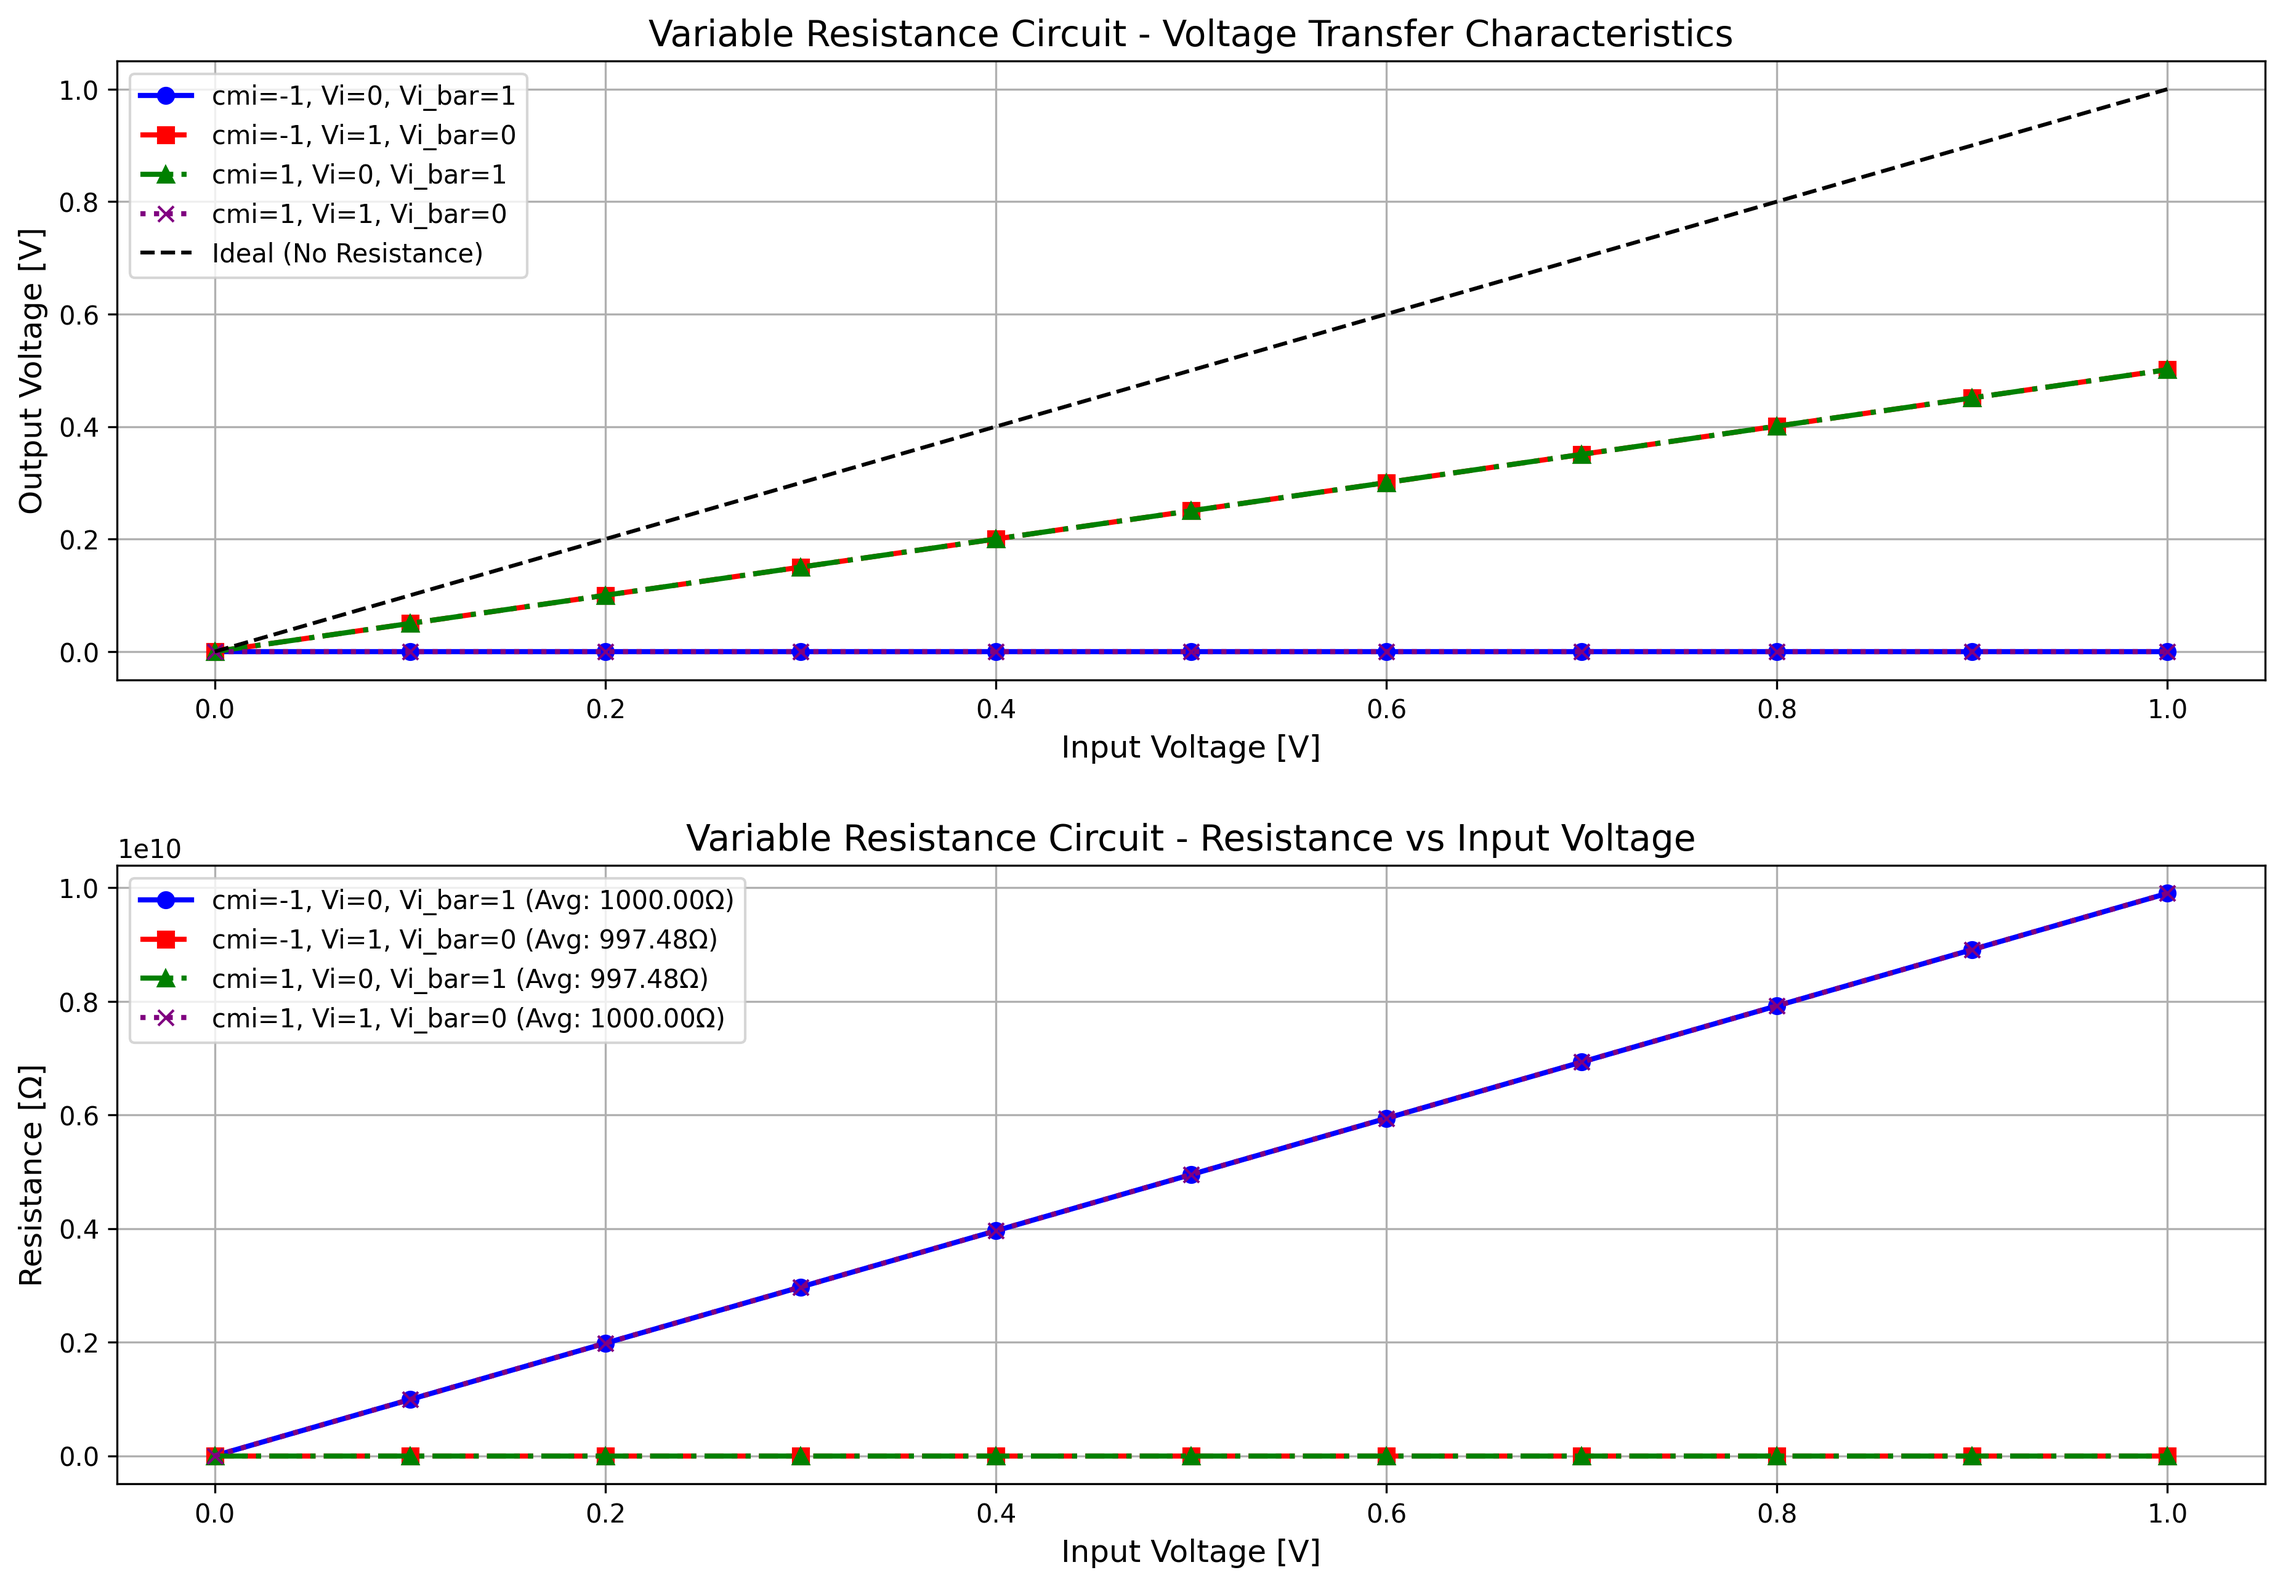
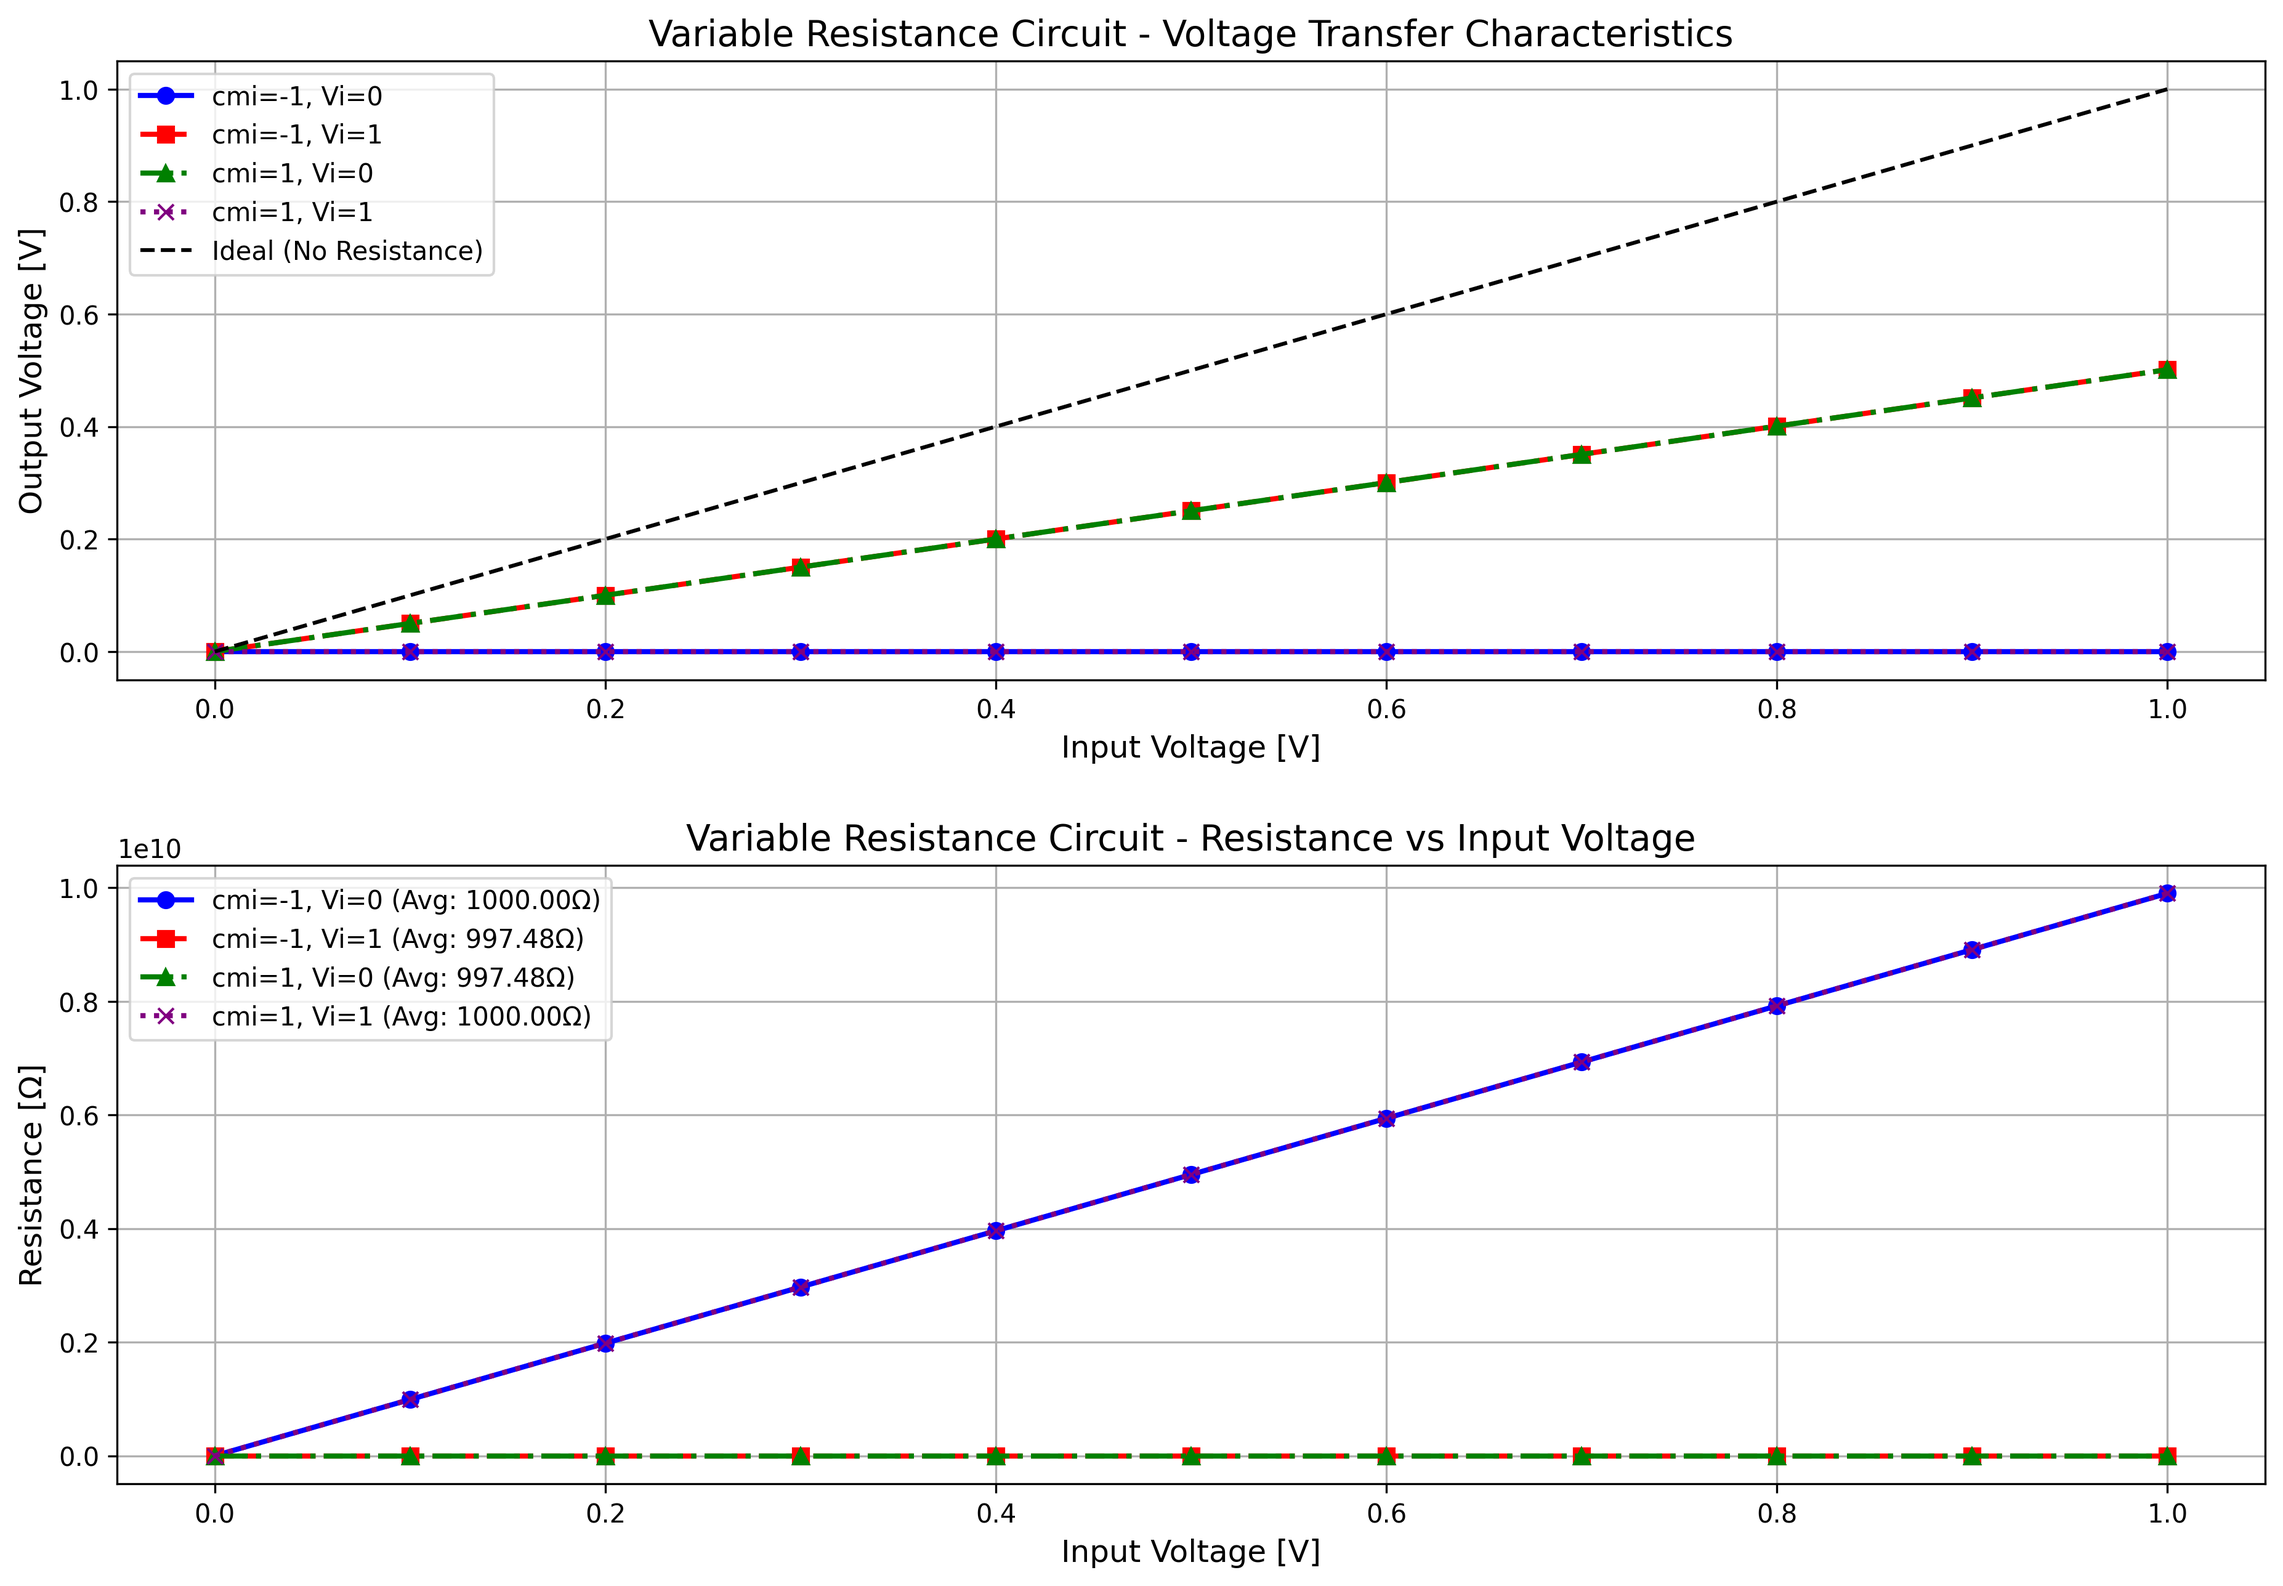
Variable resistance VCVS for inverting vi

Changed region(s): [[0.0931, 0.5592, 0.3412, 0.6524], [0.062, 0.0621, 0.2172, 0.1864]]

diff --git a/src/variable_resistance.py b/src/variable_resistance.py
@@ -23,14 +23,13 @@ class VariableResistance(SubCircuitFactory):
     
     Nodes:
     - vi: First control voltage input
-    - vi_bar: Second control voltage input (complement of vi)
     - vin: Input signal terminal
     - vout: Output signal terminal
     - vdd: Power supply
     - gnd: Ground
     """
     NAME = 'variable_resistance'
-    NODES = ('vi', 'vi_bar', 'vin', 'vout', 'vdd', 'gnd')
+    NODES = ('vi', 'vin', 'vout', 'vdd', 'gnd')
     
     def __init__(self, cmi):
         super().__init__()
@@ -38,6 +37,9 @@ class VariableResistance(SubCircuitFactory):
         # Add the transmission gate subcircuit
         transmission_gate = TransmissionGate()
         self.subcircuit(transmission_gate)
+        # E <name> <out+> <out-> <in+> <in-> <gain>
+        self.VCVS('inv', 'vi_bar', 'gnd', 'vdd', 'vi', 1)
+
         if cmi == 1:
             Vp = 'vi'
             Vn = 'vi_bar'
@@ -58,10 +60,10 @@ def sweep_vin_test():
 
     # Test cases: different combinations of control inputs
     test_cases = [
-        {'cmi': -1, 'vi': 0, 'vi_bar': 1, 'desc': 'cmi=-1, Vi=0, Vi_bar=1'},
-        {'cmi': -1, 'vi': 1, 'vi_bar': 0, 'desc': 'cmi=-1, Vi=1, Vi_bar=0'},
-        {'cmi': 1, 'vi': 0, 'vi_bar': 1, 'desc': 'cmi=1, Vi=0, Vi_bar=1'},
-        {'cmi': 1, 'vi': 1, 'vi_bar': 0, 'desc': 'cmi=1, Vi=1, Vi_bar=0'},
+        {'cmi': -1, 'vi': 0, 'desc': 'cmi=-1, Vi=0'},
+        {'cmi': -1, 'vi': 1, 'desc': 'cmi=-1, Vi=1'},
+        {'cmi': 1, 'vi': 0, 'desc': 'cmi=1, Vi=0'},
+        {'cmi': 1, 'vi': 1, 'desc': 'cmi=1, Vi=1'},
     ]
 
     # Define line styles, colors, and markers for better visibility
@@ -86,7 +88,7 @@ def sweep_vin_test():
         circuit.subcircuit(variable_resistance)
         
         # Instantiate the variable resistance
-        circuit.X('var_res', variable_resistance.NAME, 'vi', 'vi_bar', 'vin', 'vout', 'vdd', circuit.gnd)
+        circuit.X('var_res', variable_resistance.NAME, 'vi', 'vin', 'vout', 'vdd', circuit.gnd)
         
         # Add a load resistor to measure current
         R_load = 1e3  # 1kΩ
@@ -97,7 +99,6 @@ def sweep_vin_test():
         
         # Add control voltage sources once outside the loop
         circuit.V('vi', 'vi', circuit.gnd, case['vi']@u_V)
-        circuit.V('vi_bar', 'vi_bar', circuit.gnd, case['vi_bar']@u_V)
         
         # Create simulator
         simulator = circuit.simulator(temperature=25, nominal_temperature=25)
@@ -209,7 +210,7 @@ def sweep_vi_test():
         circuit.subcircuit(variable_resistance)
         
         # Instantiate the variable resistance
-        circuit.X('var_res', variable_resistance.NAME, 'vi', 'vi_bar', 'vin', 'vout', 'vdd', circuit.gnd)
+        circuit.X('var_res', variable_resistance.NAME, 'vi', 'vin', 'vout', 'vdd', circuit.gnd)
         
         # Add a load resistor to measure current
         R_load = 1e3  # 1kΩ
@@ -220,7 +221,6 @@ def sweep_vi_test():
         
         # Add control voltage sources
         vi_src = circuit.V('vi', 'vi', circuit.gnd, 0@u_V)  # Will be swept
-        vi_bar_src = circuit.V('vi_bar', 'vi_bar', circuit.gnd, 1@u_V)  # Will be complement of vi
         
         # Create simulator
         simulator = circuit.simulator(temperature=25, nominal_temperature=25)
@@ -229,7 +229,6 @@ def sweep_vi_test():
         for i, vi in enumerate(vi_sweep):
             # Set Vi and Vi_bar (complement)
             vi_src.dc_value = vi@u_V
-            vi_bar_src.dc_value = (vdd-vi)@u_V
             
             # Run operating point analysis
             analysis = simulator.operating_point()
